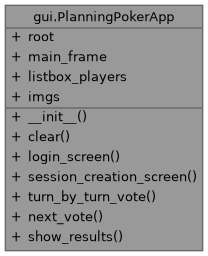
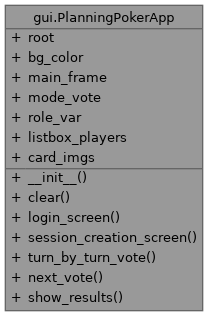
deploy: 3e3ea1c697fd4a08c5afbd2700863945fede5ffb

Changed region(s): [[0.0288, 0.0, 0.9808, 1.0]]

diff --git a/html/classgui_1_1PlanningPokerApp-members.html b/html/classgui_1_1PlanningPokerApp-members.html
@@ -80,16 +80,19 @@ $(function() {
 <p>This is the complete list of members for <a class="el" href="classgui_1_1PlanningPokerApp.html">gui.PlanningPokerApp</a>, including all inherited members.</p>
 <table class="directory">
   <tr bgcolor="#f0f0f0" class="even"><td class="entry"><b>__init__</b>(self, root) (defined in <a class="el" href="classgui_1_1PlanningPokerApp.html">gui.PlanningPokerApp</a>)</td><td class="entry"><a class="el" href="classgui_1_1PlanningPokerApp.html">gui.PlanningPokerApp</a></td><td class="entry"></td></tr>
+  <tr bgcolor="#f0f0f0" class="odd"><td class="entry"><b>bg_color</b> (defined in <a class="el" href="classgui_1_1PlanningPokerApp.html">gui.PlanningPokerApp</a>)</td><td class="entry"><a class="el" href="classgui_1_1PlanningPokerApp.html">gui.PlanningPokerApp</a></td><td class="entry"></td></tr>
+  <tr bgcolor="#f0f0f0" class="even"><td class="entry"><b>card_imgs</b> (defined in <a class="el" href="classgui_1_1PlanningPokerApp.html">gui.PlanningPokerApp</a>)</td><td class="entry"><a class="el" href="classgui_1_1PlanningPokerApp.html">gui.PlanningPokerApp</a></td><td class="entry"></td></tr>
   <tr bgcolor="#f0f0f0" class="odd"><td class="entry"><b>clear</b>(self) (defined in <a class="el" href="classgui_1_1PlanningPokerApp.html">gui.PlanningPokerApp</a>)</td><td class="entry"><a class="el" href="classgui_1_1PlanningPokerApp.html">gui.PlanningPokerApp</a></td><td class="entry"></td></tr>
-  <tr bgcolor="#f0f0f0" class="even"><td class="entry"><b>imgs</b> (defined in <a class="el" href="classgui_1_1PlanningPokerApp.html">gui.PlanningPokerApp</a>)</td><td class="entry"><a class="el" href="classgui_1_1PlanningPokerApp.html">gui.PlanningPokerApp</a></td><td class="entry"></td></tr>
-  <tr bgcolor="#f0f0f0" class="odd"><td class="entry"><b>listbox_players</b> (defined in <a class="el" href="classgui_1_1PlanningPokerApp.html">gui.PlanningPokerApp</a>)</td><td class="entry"><a class="el" href="classgui_1_1PlanningPokerApp.html">gui.PlanningPokerApp</a></td><td class="entry"></td></tr>
-  <tr bgcolor="#f0f0f0" class="even"><td class="entry"><b>login_screen</b>(self) (defined in <a class="el" href="classgui_1_1PlanningPokerApp.html">gui.PlanningPokerApp</a>)</td><td class="entry"><a class="el" href="classgui_1_1PlanningPokerApp.html">gui.PlanningPokerApp</a></td><td class="entry"></td></tr>
-  <tr bgcolor="#f0f0f0" class="odd"><td class="entry"><b>main_frame</b> (defined in <a class="el" href="classgui_1_1PlanningPokerApp.html">gui.PlanningPokerApp</a>)</td><td class="entry"><a class="el" href="classgui_1_1PlanningPokerApp.html">gui.PlanningPokerApp</a></td><td class="entry"></td></tr>
+  <tr bgcolor="#f0f0f0" class="even"><td class="entry"><b>listbox_players</b> (defined in <a class="el" href="classgui_1_1PlanningPokerApp.html">gui.PlanningPokerApp</a>)</td><td class="entry"><a class="el" href="classgui_1_1PlanningPokerApp.html">gui.PlanningPokerApp</a></td><td class="entry"></td></tr>
+  <tr bgcolor="#f0f0f0" class="odd"><td class="entry"><b>login_screen</b>(self) (defined in <a class="el" href="classgui_1_1PlanningPokerApp.html">gui.PlanningPokerApp</a>)</td><td class="entry"><a class="el" href="classgui_1_1PlanningPokerApp.html">gui.PlanningPokerApp</a></td><td class="entry"></td></tr>
+  <tr bgcolor="#f0f0f0" class="even"><td class="entry"><b>main_frame</b> (defined in <a class="el" href="classgui_1_1PlanningPokerApp.html">gui.PlanningPokerApp</a>)</td><td class="entry"><a class="el" href="classgui_1_1PlanningPokerApp.html">gui.PlanningPokerApp</a></td><td class="entry"></td></tr>
+  <tr bgcolor="#f0f0f0" class="odd"><td class="entry"><b>mode_vote</b> (defined in <a class="el" href="classgui_1_1PlanningPokerApp.html">gui.PlanningPokerApp</a>)</td><td class="entry"><a class="el" href="classgui_1_1PlanningPokerApp.html">gui.PlanningPokerApp</a></td><td class="entry"></td></tr>
   <tr bgcolor="#f0f0f0" class="even"><td class="entry"><b>next_vote</b>(self, p_idx, t_idx, val) (defined in <a class="el" href="classgui_1_1PlanningPokerApp.html">gui.PlanningPokerApp</a>)</td><td class="entry"><a class="el" href="classgui_1_1PlanningPokerApp.html">gui.PlanningPokerApp</a></td><td class="entry"></td></tr>
-  <tr bgcolor="#f0f0f0" class="odd"><td class="entry"><b>root</b> (defined in <a class="el" href="classgui_1_1PlanningPokerApp.html">gui.PlanningPokerApp</a>)</td><td class="entry"><a class="el" href="classgui_1_1PlanningPokerApp.html">gui.PlanningPokerApp</a></td><td class="entry"></td></tr>
-  <tr bgcolor="#f0f0f0" class="even"><td class="entry"><b>session_creation_screen</b>(self) (defined in <a class="el" href="classgui_1_1PlanningPokerApp.html">gui.PlanningPokerApp</a>)</td><td class="entry"><a class="el" href="classgui_1_1PlanningPokerApp.html">gui.PlanningPokerApp</a></td><td class="entry"></td></tr>
-  <tr bgcolor="#f0f0f0" class="odd"><td class="entry"><b>show_results</b>(self, t_idx) (defined in <a class="el" href="classgui_1_1PlanningPokerApp.html">gui.PlanningPokerApp</a>)</td><td class="entry"><a class="el" href="classgui_1_1PlanningPokerApp.html">gui.PlanningPokerApp</a></td><td class="entry"></td></tr>
-  <tr bgcolor="#f0f0f0" class="even"><td class="entry"><b>turn_by_turn_vote</b>(self, p_idx, t_idx) (defined in <a class="el" href="classgui_1_1PlanningPokerApp.html">gui.PlanningPokerApp</a>)</td><td class="entry"><a class="el" href="classgui_1_1PlanningPokerApp.html">gui.PlanningPokerApp</a></td><td class="entry"></td></tr>
+  <tr bgcolor="#f0f0f0" class="odd"><td class="entry"><b>role_var</b> (defined in <a class="el" href="classgui_1_1PlanningPokerApp.html">gui.PlanningPokerApp</a>)</td><td class="entry"><a class="el" href="classgui_1_1PlanningPokerApp.html">gui.PlanningPokerApp</a></td><td class="entry"></td></tr>
+  <tr bgcolor="#f0f0f0" class="even"><td class="entry"><b>root</b> (defined in <a class="el" href="classgui_1_1PlanningPokerApp.html">gui.PlanningPokerApp</a>)</td><td class="entry"><a class="el" href="classgui_1_1PlanningPokerApp.html">gui.PlanningPokerApp</a></td><td class="entry"></td></tr>
+  <tr bgcolor="#f0f0f0" class="odd"><td class="entry"><b>session_creation_screen</b>(self) (defined in <a class="el" href="classgui_1_1PlanningPokerApp.html">gui.PlanningPokerApp</a>)</td><td class="entry"><a class="el" href="classgui_1_1PlanningPokerApp.html">gui.PlanningPokerApp</a></td><td class="entry"></td></tr>
+  <tr bgcolor="#f0f0f0" class="even"><td class="entry"><b>show_results</b>(self, t_idx) (defined in <a class="el" href="classgui_1_1PlanningPokerApp.html">gui.PlanningPokerApp</a>)</td><td class="entry"><a class="el" href="classgui_1_1PlanningPokerApp.html">gui.PlanningPokerApp</a></td><td class="entry"></td></tr>
+  <tr bgcolor="#f0f0f0" class="odd"><td class="entry"><b>turn_by_turn_vote</b>(self, p_idx, t_idx) (defined in <a class="el" href="classgui_1_1PlanningPokerApp.html">gui.PlanningPokerApp</a>)</td><td class="entry"><a class="el" href="classgui_1_1PlanningPokerApp.html">gui.PlanningPokerApp</a></td><td class="entry"></td></tr>
 </table></div><!-- contents -->
 <!-- start footer part -->
 <hr class="footer"/><address class="footer"><small>

diff --git a/html/classgui_1_1PlanningPokerApp.html b/html/classgui_1_1PlanningPokerApp.html
@@ -85,7 +85,7 @@ Collaboration diagram for gui.PlanningPokerApp:</div>
 <div class="dyncontent">
 <div class="center"><img src="classgui_1_1PlanningPokerApp__coll__graph.png" border="0" usemap="#agui_8PlanningPokerApp_coll__map" alt="Collaboration graph"/></div>
 <map name="agui_8PlanningPokerApp_coll__map" id="agui_8PlanningPokerApp_coll__map">
-<area shape="rect" title=" " alt="" coords="5,5,203,251"/>
+<area shape="rect" title=" " alt="" coords="5,5,203,311"/>
 </map>
 </div>
 <table class="memberdecls">
@@ -118,15 +118,24 @@ Public Attributes</h2></td></tr>
 <tr class="memitem:ac927839c11ea536bb3094cfa41a5c17a" id="r_ac927839c11ea536bb3094cfa41a5c17a"><td class="memItemLeft" align="right" valign="top"><a id="ac927839c11ea536bb3094cfa41a5c17a" name="ac927839c11ea536bb3094cfa41a5c17a"></a>
 &#160;</td><td class="memItemRight" valign="bottom"><b>root</b></td></tr>
 <tr class="separator:ac927839c11ea536bb3094cfa41a5c17a"><td class="memSeparator" colspan="2">&#160;</td></tr>
+<tr class="memitem:a953bce1386fa4ba1bfc68d0316d27232" id="r_a953bce1386fa4ba1bfc68d0316d27232"><td class="memItemLeft" align="right" valign="top"><a id="a953bce1386fa4ba1bfc68d0316d27232" name="a953bce1386fa4ba1bfc68d0316d27232"></a>
+&#160;</td><td class="memItemRight" valign="bottom"><b>bg_color</b></td></tr>
+<tr class="separator:a953bce1386fa4ba1bfc68d0316d27232"><td class="memSeparator" colspan="2">&#160;</td></tr>
 <tr class="memitem:a8a8bf4247b4a9a9d59f62fdb4b44e218" id="r_a8a8bf4247b4a9a9d59f62fdb4b44e218"><td class="memItemLeft" align="right" valign="top"><a id="a8a8bf4247b4a9a9d59f62fdb4b44e218" name="a8a8bf4247b4a9a9d59f62fdb4b44e218"></a>
 &#160;</td><td class="memItemRight" valign="bottom"><b>main_frame</b></td></tr>
 <tr class="separator:a8a8bf4247b4a9a9d59f62fdb4b44e218"><td class="memSeparator" colspan="2">&#160;</td></tr>
+<tr class="memitem:af9a79b8b04b3c3d8d9c849a1f1a4bce6" id="r_af9a79b8b04b3c3d8d9c849a1f1a4bce6"><td class="memItemLeft" align="right" valign="top"><a id="af9a79b8b04b3c3d8d9c849a1f1a4bce6" name="af9a79b8b04b3c3d8d9c849a1f1a4bce6"></a>
+&#160;</td><td class="memItemRight" valign="bottom"><b>mode_vote</b></td></tr>
+<tr class="separator:af9a79b8b04b3c3d8d9c849a1f1a4bce6"><td class="memSeparator" colspan="2">&#160;</td></tr>
+<tr class="memitem:a432b9c642e5c8b8853cacdbf1b9127ef" id="r_a432b9c642e5c8b8853cacdbf1b9127ef"><td class="memItemLeft" align="right" valign="top"><a id="a432b9c642e5c8b8853cacdbf1b9127ef" name="a432b9c642e5c8b8853cacdbf1b9127ef"></a>
+&#160;</td><td class="memItemRight" valign="bottom"><b>role_var</b></td></tr>
+<tr class="separator:a432b9c642e5c8b8853cacdbf1b9127ef"><td class="memSeparator" colspan="2">&#160;</td></tr>
 <tr class="memitem:a3a0c3103772ef81acf1795ac5aaa3510" id="r_a3a0c3103772ef81acf1795ac5aaa3510"><td class="memItemLeft" align="right" valign="top"><a id="a3a0c3103772ef81acf1795ac5aaa3510" name="a3a0c3103772ef81acf1795ac5aaa3510"></a>
 &#160;</td><td class="memItemRight" valign="bottom"><b>listbox_players</b></td></tr>
 <tr class="separator:a3a0c3103772ef81acf1795ac5aaa3510"><td class="memSeparator" colspan="2">&#160;</td></tr>
-<tr class="memitem:a80c04e05340a35eb6227bc8401c37deb" id="r_a80c04e05340a35eb6227bc8401c37deb"><td class="memItemLeft" align="right" valign="top"><a id="a80c04e05340a35eb6227bc8401c37deb" name="a80c04e05340a35eb6227bc8401c37deb"></a>
-&#160;</td><td class="memItemRight" valign="bottom"><b>imgs</b></td></tr>
-<tr class="separator:a80c04e05340a35eb6227bc8401c37deb"><td class="memSeparator" colspan="2">&#160;</td></tr>
+<tr class="memitem:a3f77e991fe34b89d475896e7b11d3bc8" id="r_a3f77e991fe34b89d475896e7b11d3bc8"><td class="memItemLeft" align="right" valign="top"><a id="a3f77e991fe34b89d475896e7b11d3bc8" name="a3f77e991fe34b89d475896e7b11d3bc8"></a>
+&#160;</td><td class="memItemRight" valign="bottom"><b>card_imgs</b></td></tr>
+<tr class="separator:a3f77e991fe34b89d475896e7b11d3bc8"><td class="memSeparator" colspan="2">&#160;</td></tr>
 </table>
 <hr/>The documentation for this class was generated from the following file:<ul>
 <li>main/<b>gui.py</b></li>
